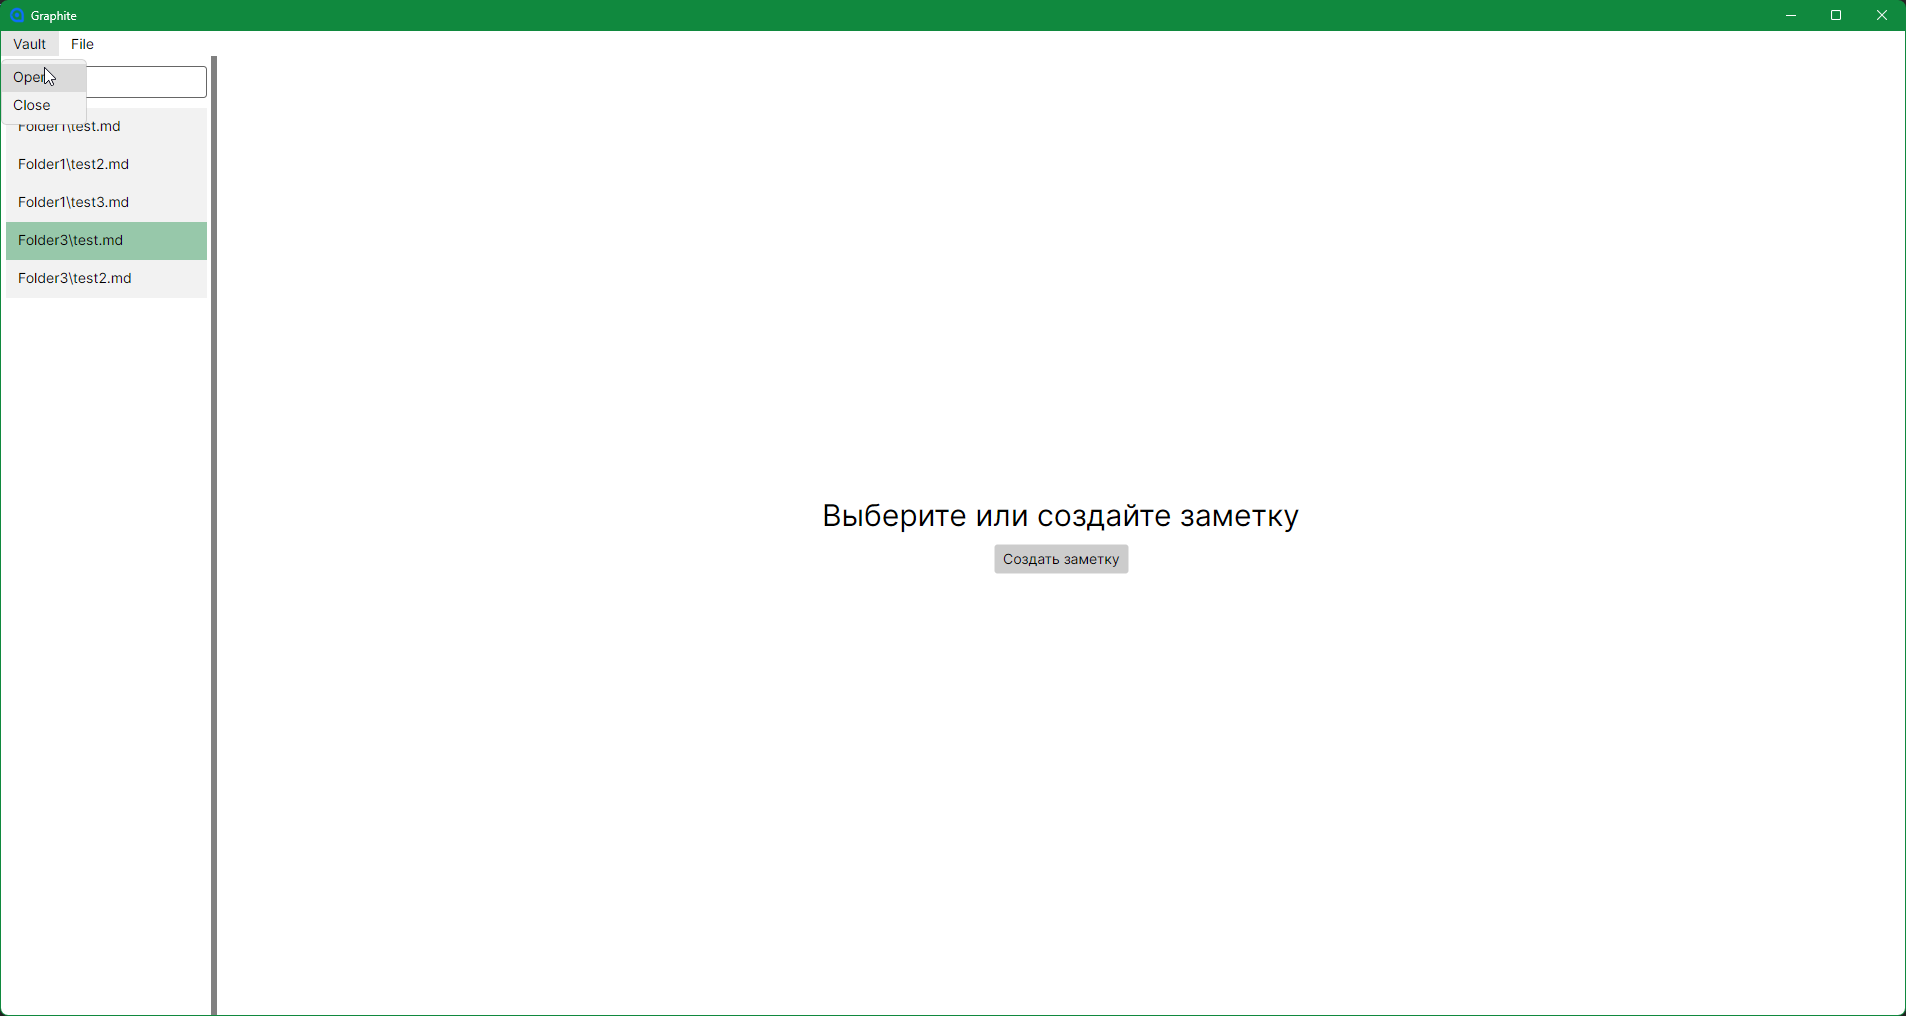
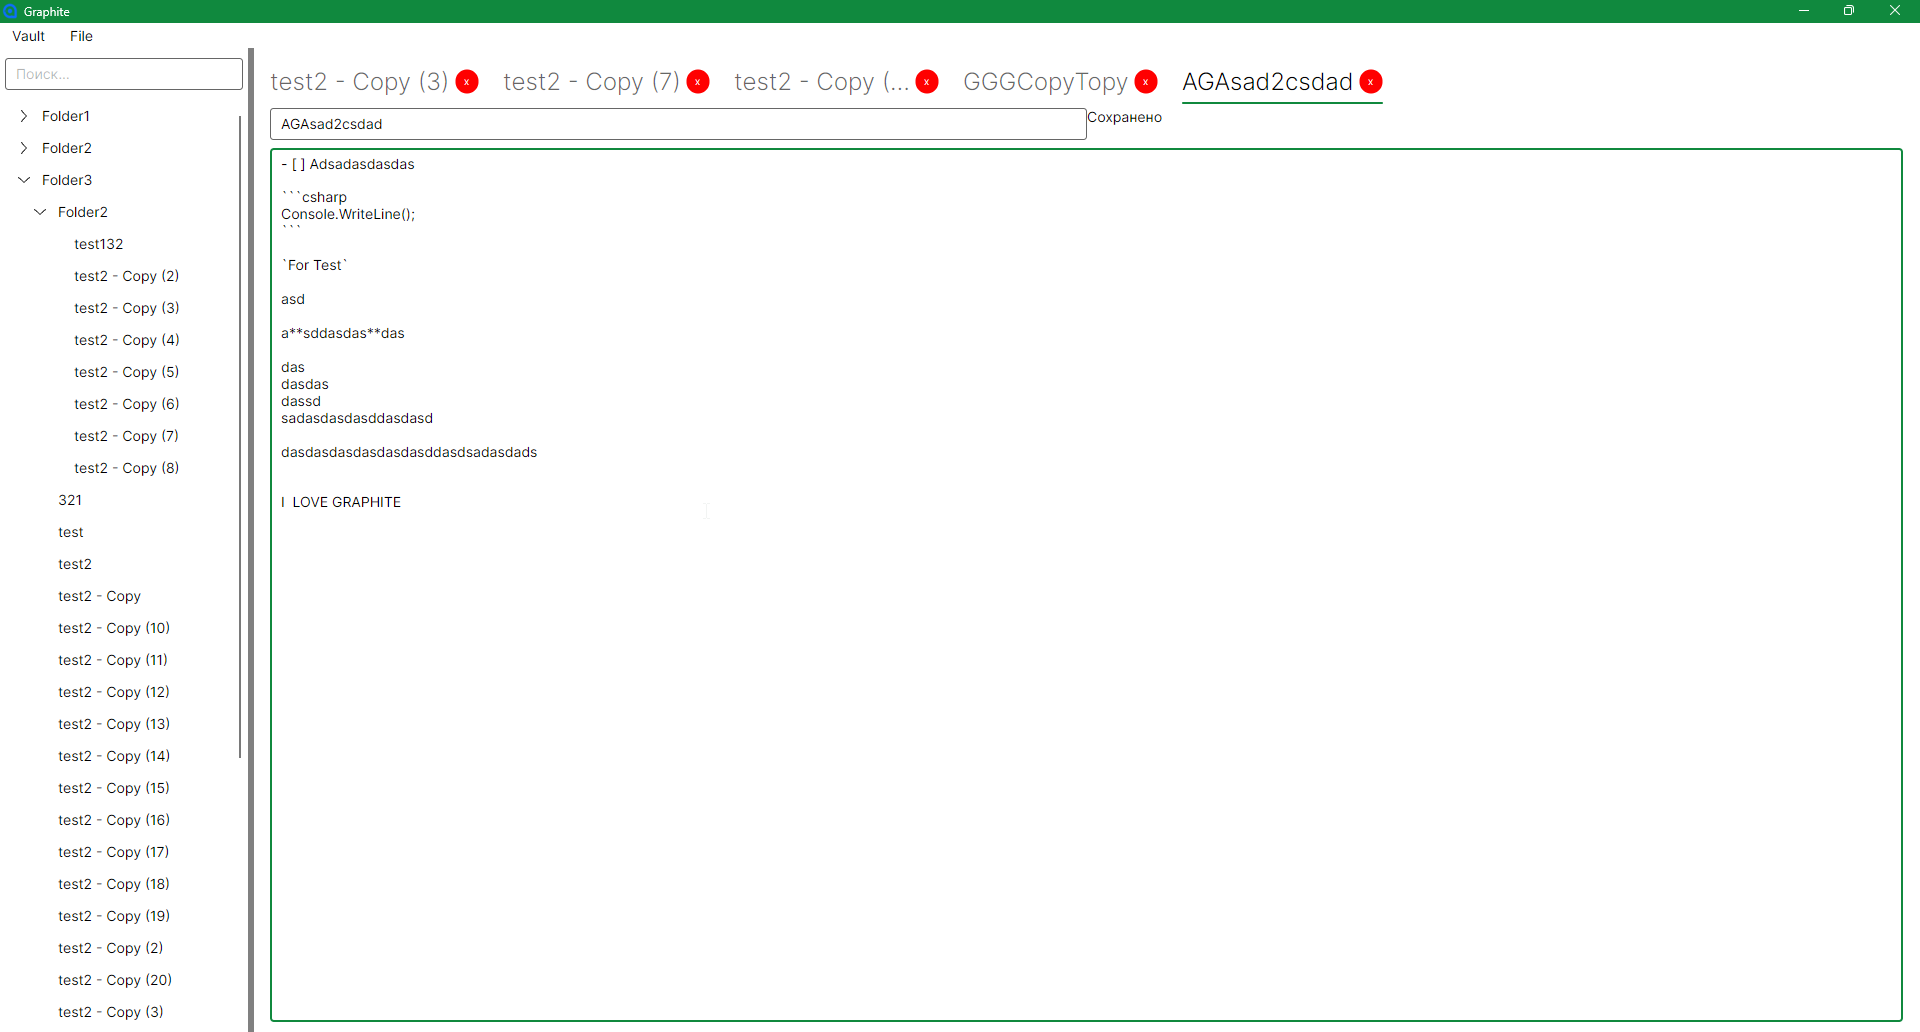
update Readme.md

Changed region(s): [[0.0, 0.0, 1.0, 1.0], [0.4334, 0.4882, 0.681, 0.5797], [0.9596, 0.122, 0.9906, 0.1526]]

diff --git a/MyNote.App/ViewModels/DeleteNoteViewModel.cs b/MyNote.App/ViewModels/DeleteNoteViewModel.cs
@@ -33,7 +33,8 @@ public partial class DeleteNoteViewModel : ViewModelBase
     /// <summary>
     /// Indicator on deleting
     /// </summary>
-    private bool IsDeleteInProgress { get; set; }
+    [ObservableProperty]
+    public partial bool IsDeleteInProgress { get; set; }
 
     [ObservableProperty] public partial string ErrorMessage { get; set; }
     [ObservableProperty] public partial string Text { get; set; }

diff --git a/README.ru.md b/README.ru.md
@@ -1,0 +1,43 @@
+[🇬🇧 English](README.md) | **Русский**
+
+# Graphite
+
+MVP: создание/редактирование заметок, автосохранение Markdown, поиск.
+В v0.1 не будет: синхронизации, сервера, mobile/web, плагинов, MinIO, авторизации.
+
+Проект создан для обучения и открыт к вашим предложениям.
+Он будет open source навсегда.
+
+Одна из причин — мне надоели программы на Electron, которые потребляют 400 МБ–1 ГБ оперативной памяти на локальном компьютере.
+Хочется написать приложение, которое по мере развития будет содержать немало функций, но при этом потреблять адекватные 100–200 МБ.
+
+На данный момент приложение потребляет **61 МБ** оперативной памяти.
+
+Проект делается вручную без ИИ. Напоминаю: в первую очередь он создан для изучения.
+Но **в ваших pull requests может использоваться ИИ**.
+
+Дизайн — второстепенная задача.
+Главный упор — на оптимизацию.
+
+### Скриншот: хранилище ещё не открыто
+![Главный экран](docs/images/main_screen_without_open_vauilt.png)
+
+### Скриншот: открытое хранилище
+![Открытое хранилище](docs/images/main_screen.png)
+
+Все перечисленные ниже функции можно выполнить:
+1. В дереве файлов
+2. Через верхнее меню
+3. Через горячие клавиши
+
+Если действие вызвано не через дерево файлов, оно применяется к активной (открытой) заметке.
+
+### Скриншот: создание файла (Ctrl + N)
+![Создание файла](docs/images/screen_create_note.png)
+
+### Скриншот: удаление файла (Delete)
+Файл удаляется во временную папку (`.trash`).
+![Удаление файла](docs/images/screen_delete_note.png)
+
+### Скриншот: переименование файла (F2)
+![Переименование файла](docs/images/screen_rename_note.png)

diff --git a/Readme.md b/Readme.md
@@ -1,16 +1,43 @@
-MVP: создание/редактирование заметки, автосохранение Markdown, поиск.
-В v0.1 не будет: sync, сервер, mobile/web, плагины, MinIO, авторизация.
+**English** | [🇷🇺 Русский](README.ru.md)
 
-Проект создан для обучения + открыт к вашим предложениям.
-Это будет opensource навсегда.
+# Graphite
 
-Проект делается в ручном режиме без ИИ. Так как напоминаю в первую очередь он для изучения.
-Но **в ваших pull request может быть ИИ**. 
+MVP: creating/editing notes, Markdown auto-saving, search.
+v0.1 will not include: sync, server, mobile/web, plugins, MinIO, authentication.
 
-Только **пожалуйста ПОМЕЧАЙТЕ ЭТОТ PULL REQUEST ТЕГОМ *[AI]* и создавайте тесты**.
+This project was created for learning purposes and is open to your suggestions.
+It will be open source forever.
 
-### Скрин пока хранилище еще не открыто
-![Главный экран](docs/images/main_screen_without_open_vauilt.png)
+One of the reasons is that I got tired of Electron-based apps consuming 400 MB–1 GB of RAM on my local machine.
+I want to build an application that will have many features as it grows, while consuming a reasonable 100–200 MB.
 
-### Скрин открытого хранилища
-![Открытое хранилище](docs/images/main_screen.png)
+At the moment, the application uses **61 MB** of RAM.
+
+The project is being developed manually without AI, because again, it is primarily for learning.
+However, **your pull requests may involve AI**.
+
+Design is a secondary priority.
+The main focus is optimization.
+
+### Screenshot: no vault opened yet
+![Main screen](docs/images/main_screen_without_open_vauilt.png)
+
+### Screenshot: opened vault
+![Opened vault](docs/images/main_screen.png)
+
+All features below can be triggered via:
+1. The file tree
+2. The top menu
+3. Keyboard shortcuts
+
+If a note is not selected in the file tree, the action applies to the currently active (open) note.
+
+### Screenshot: create file (Ctrl + N)
+![Create file](docs/images/screen_create_note.png)
+
+### Screenshot: delete file (Delete)
+The file is moved to a temporary folder (`.trash`).
+![Delete file](docs/images/screen_delete_note.png)
+
+### Screenshot: rename file (F2)
+![Rename file](docs/images/screen_rename_note.png)
